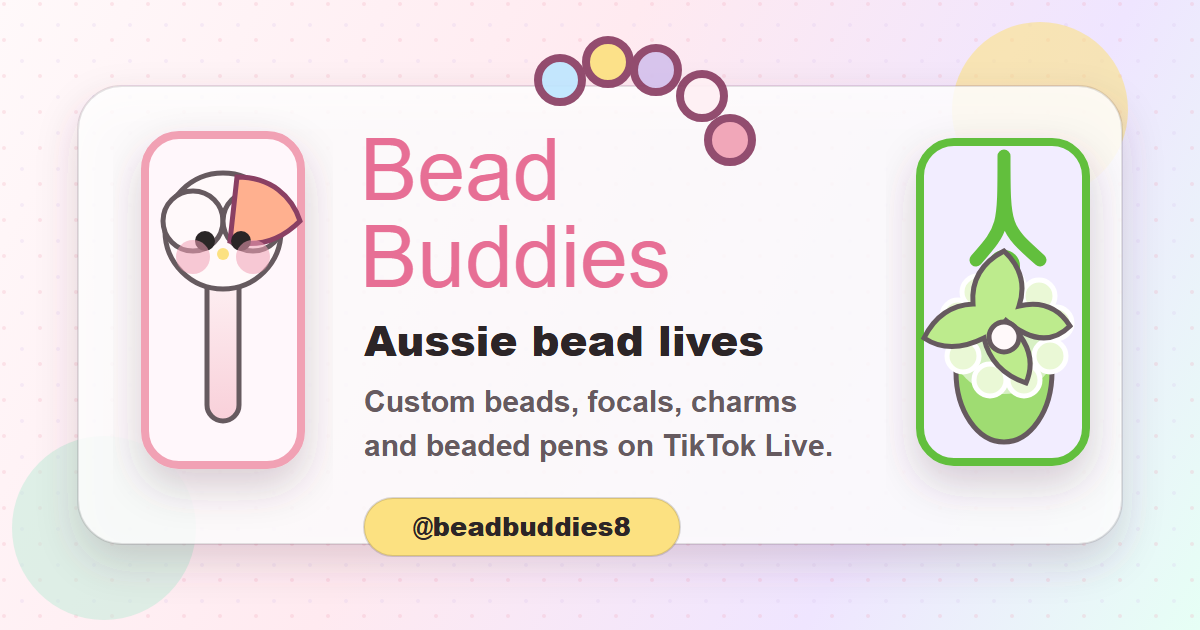
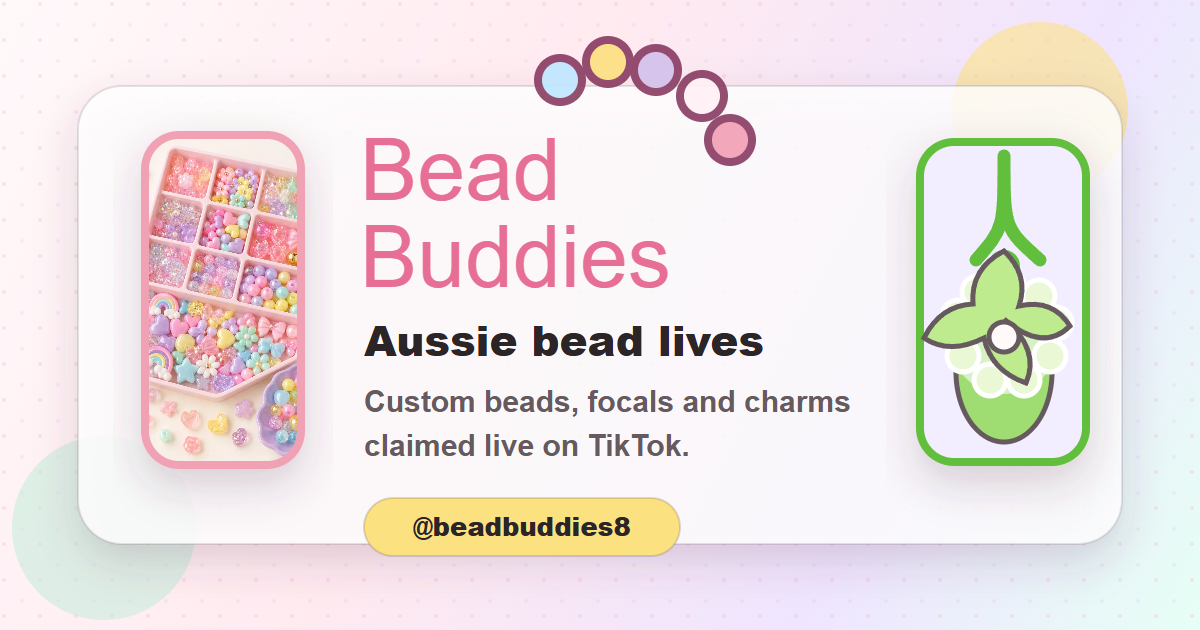
Replace pen products and add claim confirmation terms

Changed region(s): [[0.1233, 0.2413, 0.2775, 0.754], [0.3083, 0.6635, 0.7092, 0.7238], [0.555, 0.6032, 0.7092, 0.6635]]

diff --git a/index.html b/index.html
@@ -3,7 +3,7 @@
 <head>
   <meta charset="utf-8">
   <meta name="viewport" content="width=device-width, initial-scale=1">
-  <meta name="description" content="Bead Buddies is an Australian home-based craft business selling custom beads, acrylic focals, and beaded pens through TikTok Live sales, with selected international shipping.">
+  <meta name="description" content="Bead Buddies is an Australian home-based craft business selling custom beads, acrylic focals, charms, and colourful craft supplies through TikTok Live sales, with selected international shipping.">
   <meta name="robots" content="index, follow">
   <meta name="theme-color" content="#F1A1B4">
   <title>Bead Buddies | Bead & Craft Haven</title>
@@ -13,7 +13,7 @@
   <meta property="og:site_name" content="Bead Buddies">
   <meta property="og:type" content="website">
   <meta property="og:title" content="Bead Buddies | Bead & Craft Haven">
-  <meta property="og:description" content="Custom beads, acrylic focals, charms, and beaded pens claimed during Bead Buddies TikTok Lives, with selected international shipping.">
+  <meta property="og:description" content="Custom beads, acrylic focals, charms, and colourful craft supplies claimed during Bead Buddies TikTok Lives, with selected international shipping.">
   <meta property="og:url" content="https://www.beadbuddies.com.au/">
   <meta property="og:image" content="https://www.beadbuddies.com.au/assets/social-share.png">
   <meta property="og:image:width" content="1200">
@@ -21,7 +21,7 @@
   <meta property="og:image:alt" content="Bead Buddies pastel bead and craft preview">
   <meta name="twitter:card" content="summary_large_image">
   <meta name="twitter:title" content="Bead Buddies | Bead & Craft Haven">
-  <meta name="twitter:description" content="Custom beads, acrylic focals, charms, and beaded pens claimed during Bead Buddies TikTok Lives, with selected international shipping.">
+  <meta name="twitter:description" content="Custom beads, acrylic focals, charms, and colourful craft supplies claimed during Bead Buddies TikTok Lives, with selected international shipping.">
   <meta name="twitter:image" content="https://www.beadbuddies.com.au/assets/social-share.png">
   <script type="application/ld+json">
     {
@@ -29,7 +29,7 @@
       "@type": "Store",
       "name": "Bead Buddies",
       "url": "https://www.beadbuddies.com.au/",
-      "description": "Australian TikTok Live bead, acrylic focal, charm, and beaded pen sales with selected international shipping.",
+      "description": "Australian TikTok Live bead, acrylic focal, charm, and colourful craft supply sales with selected international shipping.",
       "areaServed": [
         {
           "@type": "Country",
@@ -913,51 +913,6 @@
       text-transform: uppercase;
     }
 
-    .art-pen {
-      position: relative;
-      z-index: 1;
-      width: clamp(46px, 12vw, 74px);
-      height: 78%;
-      border: 2px solid rgba(44, 37, 39, 0.64);
-      border-radius: 999px;
-      background:
-        linear-gradient(180deg, transparent 0 18%, rgba(44, 37, 39, 0.18) 18% 19%, transparent 19% 100%),
-        linear-gradient(180deg, var(--pen-top, #ffd5df) 0 21%, #ffffff 21% 28%, var(--pen-body, #f7d8ff) 28% 100%);
-      box-shadow: 0 18px 30px rgba(93, 59, 77, 0.16);
-    }
-
-    .art-pen::before {
-      content: "";
-      position: absolute;
-      left: 50%;
-      top: 7%;
-      width: 150%;
-      aspect-ratio: 1;
-      border: 2px solid rgba(44, 37, 39, 0.64);
-      border-radius: 34% 42% 44% 38%;
-      background:
-        radial-gradient(circle at 32% 36%, #161417 0 4%, transparent 4.5%),
-        radial-gradient(circle at 66% 36%, #161417 0 4%, transparent 4.5%),
-        radial-gradient(circle at 50% 47%, #f8b549 0 3.5%, transparent 4%),
-        radial-gradient(circle at 30% 52%, rgba(241, 161, 180, 0.9) 0 8%, transparent 8.5%),
-        radial-gradient(circle at 68% 52%, rgba(241, 161, 180, 0.9) 0 8%, transparent 8.5%),
-        linear-gradient(135deg, #fff8fa, var(--character, #ffd6df));
-      box-shadow: 0 12px 22px rgba(93, 59, 77, 0.16);
-      transform: translateX(-50%) rotate(var(--head-tilt, -5deg));
-    }
-
-    .art-pen::after {
-      content: "";
-      position: absolute;
-      left: 50%;
-      bottom: -4%;
-      width: 42%;
-      height: 12%;
-      border-radius: 0 0 999px 999px;
-      background: #2c2527;
-      transform: translateX(-50%);
-    }
-
     .art-charm {
       position: relative;
       z-index: 1;
@@ -995,19 +950,6 @@
       font-size: clamp(2.5rem, 11vw, 4.8rem);
       transform: translateX(-50%);
       text-shadow: 0 5px 12px rgba(93, 59, 77, 0.12);
-    }
-
-    .art-kitty {
-      --pen-top: #ffd0dd;
-      --pen-body: #d8c4ff;
-      --character: #ffffff;
-    }
-
-    .art-bunny {
-      --pen-top: #ff92b3;
-      --pen-body: #f8fbff;
-      --character: #ffc1d1;
-      --head-tilt: 4deg;
     }
 
     .art-pink {
@@ -1371,24 +1313,32 @@
       grid-column: 1 / -1;
     }
 
+    .terms-list li:last-child {
+      grid-column: 1 / -1;
+    }
+
     .terms-list li:nth-child(1) {
       --term-bg: #ffe1ea;
     }
 
     .terms-list li:nth-child(2) {
-      --term-bg: #fff2b9;
-    }
-
-    .terms-list li:nth-child(3) {
       --term-bg: #e8ddff;
     }
 
+    .terms-list li:nth-child(3) {
+      --term-bg: #fff2b9;
+    }
+
     .terms-list li:nth-child(4) {
-      --term-bg: #dcf8ef;
+      --term-bg: #dff1ff;
     }
 
     .terms-list li:nth-child(5) {
-      --term-bg: #dff1ff;
+      --term-bg: #dcf8ef;
+    }
+
+    .terms-list li:nth-child(6) {
+      --term-bg: #f6e8ff;
     }
 
     .terms-list li::before {
@@ -1714,7 +1664,7 @@
             <span class="eyebrow"><span class="sparkle" aria-hidden="true"></span> TikTok Live claims for colourful craft lovers</span>
             <h1 id="hero-title">Your Go-To Bead & Craft Haven!</h1>
             <p class="hero-copy">
-              Custom beads, acrylic focals, and beaded pens are claimed <strong>exclusively during Bead Buddies TikTok Lives</strong>. Jump in live, call your favourites, then use the payment hub below to secure your basket.
+              Custom beads, acrylic focals, charms, and colourful craft supplies are claimed <strong>exclusively during Bead Buddies TikTok Lives</strong>. Jump in live, call your favourites, then use the payment hub below to secure your basket.
             </p>
             <div class="hero-actions">
               <div class="hero-cta-stack">
@@ -1747,7 +1697,7 @@
             </div>
           </div>
 
-          <figure class="hero-media" aria-label="A Bead Buddies live sale preview video surrounded by examples of beaded pens and acrylic charms">
+          <figure class="hero-media" aria-label="A Bead Buddies live sale preview video surrounded by examples of colourful beads, acrylic focals, and charms">
             <span class="star one" aria-hidden="true"></span>
             <span class="star two" aria-hidden="true"></span>
             <span class="star three" aria-hidden="true"></span>
@@ -1759,12 +1709,12 @@
             </div>
             <div class="hero-goodies" aria-hidden="true">
               <div class="hero-goodie-card one">
-                <img src="assets/kawaii-character-pen.svg" alt="">
-                <span>Kawaii pens</span>
+                <img src="assets/pastel-bead-mix.webp" alt="">
+                <span>Bead mixes</span>
               </div>
               <div class="hero-goodie-card two">
-                <img src="assets/pastel-acrylic-pen.svg" alt="">
-                <span>Pastel stacks</span>
+                <img src="assets/acrylic-focal-collection.webp" alt="">
+                <span>Acrylic focals</span>
               </div>
               <div class="hero-goodie-card three">
                 <img src="assets/pink-flower-charm.svg" alt="">
@@ -1822,24 +1772,24 @@
           <div class="section-header">
             <span class="eyebrow"><span class="sparkle" aria-hidden="true"></span> Tiny treasures, big personality</span>
             <h2 id="lookbook-title">What pops up on the live</h2>
-            <p>Beads, pens, charms, and glossy pastel bits you might spot in a Bead Buddies basket.</p>
+            <p>Beads, focals, charms, and glossy pastel bits you might spot in a Bead Buddies basket.</p>
           </div>
 
           <div class="showcase-grid">
             <figure class="showcase-card" style="--tilt: -2deg; --card-bg: #ffe1ea; --pop: #e76f95; --pop-soft: rgba(231, 111, 149, 0.24); --glow: rgba(231, 111, 149, 0.25);">
               <div class="photo-stage">
-                <img src="assets/kawaii-character-pen.svg" alt="A pastel character beaded pen with a glossy acrylic focal topper" loading="lazy">
-                <div class="fallback-art art-kitty" aria-hidden="true">
-                  <span class="art-pen"></span>
+                <img src="assets/pastel-bead-mix.webp" alt="A colourful assortment of pastel acrylic beads and focals arranged for a Bead Buddies live sale" loading="lazy">
+                <div class="fallback-art art-pink" aria-hidden="true">
+                  <span class="art-charm"></span>
                 </div>
               </div>
             </figure>
 
             <figure class="showcase-card" style="--tilt: 1.8deg; --card-bg: #e8ddff; --pop: #9f77df; --pop-soft: rgba(159, 119, 223, 0.23); --glow: rgba(159, 119, 223, 0.25);">
               <div class="photo-stage">
-                <img src="assets/pastel-acrylic-pen.svg" alt="A pastel beaded pen with acrylic focals, a flower bead, and pink textured beads" loading="lazy">
-                <div class="fallback-art art-bunny" aria-hidden="true">
-                  <span class="art-pen"></span>
+                <img src="assets/acrylic-focal-collection.webp" alt="A boutique collection of glossy acrylic flower, heart, star, and rainbow focals" loading="lazy">
+                <div class="fallback-art art-green" aria-hidden="true">
+                  <span class="art-charm"></span>
                 </div>
               </div>
             </figure>
@@ -1881,7 +1831,7 @@
                 </svg>
               </div>
               <h3>1. Catch the Live</h3>
-              <p>Tune into <strong>@beadbuddies8</strong> on TikTok and claim your custom beads, acrylic focals, pens, and crafty favourites as they appear.</p>
+              <p>Tune into <strong>@beadbuddies8</strong> on TikTok and claim your custom beads, acrylic focals, charms, and crafty favourites as they appear.</p>
             </article>
 
             <article class="step-card" style="--accent: rgba(212, 193, 236, 0.34);">
@@ -1971,6 +1921,7 @@
             <div>
               <ul class="terms-list">
                 <li data-icon="Live"><strong>Live claims:</strong> claims made during a TikTok Live form a sales agreement. Once the Live has ended, claims cannot be changed or cancelled for change of mind. This does not limit your rights under Australian Consumer Law.</li>
+                <li data-icon="Check"><strong>Claim photo check:</strong> after each Live, you may receive a photo of your claimed items. Please check it carefully and notify Bead Buddies of any errors before paying your invoice. If no corrections are raised before payment, the pictured items will be treated as your confirmed claims. This does not limit your rights under Australian Consumer Law.</li>
                 <li data-icon="$14"><strong>Deposit:</strong> if you have never shopped with Bead Buddies, the $14 deposit is payable once, is non-refundable, and is deducted from your first invoice.</li>
                 <li data-icon="Ship"><strong>Postage:</strong> <span data-config-text="shippingText">Shipping is available to Australia, New Zealand, and selected international destinations. Postage is calculated for your location and added to your Square invoice.</span></li>
                 <li data-icon="$200"><strong>Basket cap:</strong> <span data-config-text="basketLimitText">Live-sale baskets are capped at $200 total.</span></li>
